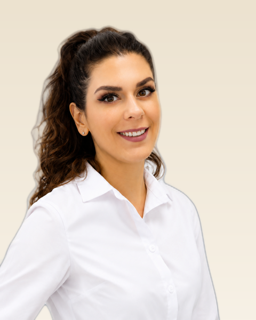
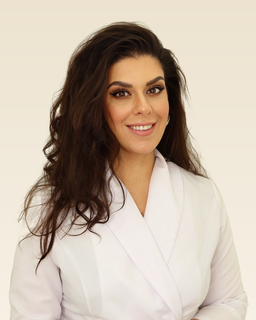
Новое фото Дробковой на карточках и странице врача
Владелец прислал свежий портрет главврача. Обработан по общему стилю
клиники (силуэт на фирменном градиенте, кадр 4:5, zoom 0.95): фон снят,
баланс белого поправлен на 60 % к нейтрали — исходник снят на бежевой
стене, и халат читался розовым.

Ссылки на портреты врачей теперь несут хеш содержимого
(`...webp?v=1a2b3c4d`): reg.ru кеширует webp на 45 дней, и без этого
прежние посетители полтора месяца видели бы старое фото. Версии
проставляет docs-version.py — он расширен с одних сканов документов
на портреты врачей и обходит теперь все HTML-страницы.

Claude-Session: https://claude.ai/code/session_013XQ8Akc3UN6p6GWzUw4Por

diff --git a/doctors/index.html b/doctors/index.html
@@ -80,7 +80,7 @@
 <section class="page-hero page-hero--center"><div class="container"><h1>Наши врачи</h1><p>Команда «Версаль» — врачи-стоматологов профильных специализаций: ортодонт, ортопед, терапевты, хирург, гигиенист и детский стоматолог. Регулярное повышение квалификации, действующие сертификаты, лицензия на медицинскую деятельность.</p></div></section>
 <section class="section"><div class="container">
   <h2 class="section__title" style="font-size:24px;margin-bottom:18px">Врачи-стоматологи</h2>
-  <div class="doctors-grid"><a href="../doctors/drobkova.html" class="doctor-card"><div class="doctor-card__photo"><img src="../assets/img/doctors/drobkova-thumb.webp" alt="Дробкова Кристина Олеговна — Главный врач · стоматолог-ортодонт, стоматология Версаль в Реутове" loading="lazy" decoding="async" width="256" height="320"></div><div class="doctor-card__body"><div class="doctor-card__name">Дробкова Кристина Олеговна</div><div class="doctor-card__role">Главный врач · стоматолог-ортодонт</div><div class="doctor-card__exp">Стаж с 2013 года · брекеты, элайнеры, исправление прикуса</div></div></a><a href="../doctors/rustamov.html" class="doctor-card"><div class="doctor-card__photo"><img src="../assets/img/doctors/rustamov-thumb.webp" alt="Рустамов Эмиль Дилгамович — Стоматолог-ортопед, стоматология Версаль в Реутове" loading="lazy" decoding="async" width="256" height="320"></div><div class="doctor-card__body"><div class="doctor-card__name">Рустамов Эмиль Дилгамович</div><div class="doctor-card__role">Стоматолог-ортопед</div><div class="doctor-card__exp">Стаж от 10 лет · протезирование, коронки, виниры</div></div></a><a href="../doctors/kilasoniya.html" class="doctor-card"><div class="doctor-card__photo"><img src="../assets/img/doctors/kilasoniya-thumb.webp" alt="Киласония Шорена Гиулиевна — Стоматолог-хирург, терапевт, стоматология Версаль в Реутове" loading="eager" decoding="async" width="256" height="320"></div><div class="doctor-card__body"><div class="doctor-card__name">Киласония Шорена Гиулиевна</div><div class="doctor-card__role">Стоматолог-хирург, терапевт</div><div class="doctor-card__exp">Стаж от 10 лет · хирургия, удаление зубов, имплантация, терапия</div></div></a><a href="../doctors/savchuk.html" class="doctor-card"><div class="doctor-card__photo"><img src="../assets/img/doctors/savchuk-thumb.webp" alt="Савчук Григорий Олегович — Стоматолог-хирург, имплантолог, стоматология Версаль в Реутове" loading="lazy" decoding="async" width="256" height="320"></div><div class="doctor-card__body"><div class="doctor-card__name">Савчук Григорий Олегович</div><div class="doctor-card__role">Стоматолог-хирург, имплантолог</div><div class="doctor-card__exp">имплантация, хирургия, протезирование</div></div></a><a href="../doctors/burnaceva.html" class="doctor-card"><div class="doctor-card__photo"><img src="../assets/img/doctors/burnaceva-thumb.webp" alt="Бурнацева Диана Алановна — Стоматолог-терапевт, ортопед, стоматология Версаль в Реутове" loading="lazy" decoding="async" width="256" height="320"></div><div class="doctor-card__body"><div class="doctor-card__name">Бурнацева Диана Алановна</div><div class="doctor-card__role">Стоматолог-терапевт, ортопед</div><div class="doctor-card__exp">Стаж с 2018 года · лечение кариеса и каналов, реставрации, коронки и виниры</div></div></a><a href="../doctors/kendabaeva.html" class="doctor-card"><div class="doctor-card__photo"><img src="../assets/img/doctors/kendabaeva-thumb.webp" alt="Кендабаева Зухро Бурхоновна — Гигиенист, стоматология Версаль в Реутове" loading="lazy" decoding="async" width="256" height="320"></div><div class="doctor-card__body"><div class="doctor-card__name">Кендабаева Зухро Бурхоновна</div><div class="doctor-card__role">Гигиенист</div><div class="doctor-card__exp">Стаж от 10 лет · гигиена, Air Flow, отбеливание</div></div></a><a href="../doctors/hachatryan.html" class="doctor-card"><div class="doctor-card__photo"><img src="../assets/img/doctors/hachatryan-thumb.webp" alt="Хачатрян Карина Вачагановна — Детский врач-стоматолог, стоматология Версаль в Реутове" loading="lazy" decoding="async" width="256" height="320"></div><div class="doctor-card__body"><div class="doctor-card__name">Хачатрян Карина Вачагановна</div><div class="doctor-card__role">Детский врач-стоматолог</div><div class="doctor-card__exp">Стаж с 2018 года · детская стоматология с 2 лет</div></div></a></div>
+  <div class="doctors-grid"><a href="../doctors/drobkova.html" class="doctor-card"><div class="doctor-card__photo"><img src="../assets/img/doctors/drobkova-thumb.webp?v=d5ae4a79" alt="Дробкова Кристина Олеговна — Главный врач · стоматолог-ортодонт, стоматология Версаль в Реутове" loading="lazy" decoding="async" width="256" height="320"></div><div class="doctor-card__body"><div class="doctor-card__name">Дробкова Кристина Олеговна</div><div class="doctor-card__role">Главный врач · стоматолог-ортодонт</div><div class="doctor-card__exp">Стаж с 2013 года · брекеты, элайнеры, исправление прикуса</div></div></a><a href="../doctors/rustamov.html" class="doctor-card"><div class="doctor-card__photo"><img src="../assets/img/doctors/rustamov-thumb.webp?v=6c5d7093" alt="Рустамов Эмиль Дилгамович — Стоматолог-ортопед, стоматология Версаль в Реутове" loading="lazy" decoding="async" width="256" height="320"></div><div class="doctor-card__body"><div class="doctor-card__name">Рустамов Эмиль Дилгамович</div><div class="doctor-card__role">Стоматолог-ортопед</div><div class="doctor-card__exp">Стаж от 10 лет · протезирование, коронки, виниры</div></div></a><a href="../doctors/kilasoniya.html" class="doctor-card"><div class="doctor-card__photo"><img src="../assets/img/doctors/kilasoniya-thumb.webp?v=d03b6b3c" alt="Киласония Шорена Гиулиевна — Стоматолог-хирург, терапевт, стоматология Версаль в Реутове" loading="eager" decoding="async" width="256" height="320"></div><div class="doctor-card__body"><div class="doctor-card__name">Киласония Шорена Гиулиевна</div><div class="doctor-card__role">Стоматолог-хирург, терапевт</div><div class="doctor-card__exp">Стаж от 10 лет · хирургия, удаление зубов, имплантация, терапия</div></div></a><a href="../doctors/savchuk.html" class="doctor-card"><div class="doctor-card__photo"><img src="../assets/img/doctors/savchuk-thumb.webp?v=f3b4a964" alt="Савчук Григорий Олегович — Стоматолог-хирург, имплантолог, стоматология Версаль в Реутове" loading="lazy" decoding="async" width="256" height="320"></div><div class="doctor-card__body"><div class="doctor-card__name">Савчук Григорий Олегович</div><div class="doctor-card__role">Стоматолог-хирург, имплантолог</div><div class="doctor-card__exp">имплантация, хирургия, протезирование</div></div></a><a href="../doctors/burnaceva.html" class="doctor-card"><div class="doctor-card__photo"><img src="../assets/img/doctors/burnaceva-thumb.webp?v=6db5958a" alt="Бурнацева Диана Алановна — Стоматолог-терапевт, ортопед, стоматология Версаль в Реутове" loading="lazy" decoding="async" width="256" height="320"></div><div class="doctor-card__body"><div class="doctor-card__name">Бурнацева Диана Алановна</div><div class="doctor-card__role">Стоматолог-терапевт, ортопед</div><div class="doctor-card__exp">Стаж с 2018 года · лечение кариеса и каналов, реставрации, коронки и виниры</div></div></a><a href="../doctors/kendabaeva.html" class="doctor-card"><div class="doctor-card__photo"><img src="../assets/img/doctors/kendabaeva-thumb.webp?v=3e3ae49f" alt="Кендабаева Зухро Бурхоновна — Гигиенист, стоматология Версаль в Реутове" loading="lazy" decoding="async" width="256" height="320"></div><div class="doctor-card__body"><div class="doctor-card__name">Кендабаева Зухро Бурхоновна</div><div class="doctor-card__role">Гигиенист</div><div class="doctor-card__exp">Стаж от 10 лет · гигиена, Air Flow, отбеливание</div></div></a><a href="../doctors/hachatryan.html" class="doctor-card"><div class="doctor-card__photo"><img src="../assets/img/doctors/hachatryan-thumb.webp?v=dcaa9632" alt="Хачатрян Карина Вачагановна — Детский врач-стоматолог, стоматология Версаль в Реутове" loading="lazy" decoding="async" width="256" height="320"></div><div class="doctor-card__body"><div class="doctor-card__name">Хачатрян Карина Вачагановна</div><div class="doctor-card__role">Детский врач-стоматолог</div><div class="doctor-card__exp">Стаж с 2018 года · детская стоматология с 2 лет</div></div></a></div>
 
   <p class="disclaimer">Полный список медицинских работников с указанием образования, сертификатов и стажа размещён на странице <a href="../legal.html">«Лицензия и реквизиты»</a> в соответствии с приказом Минздрава РФ № 956н.</p>
 </div></section>

diff --git a/index.html b/index.html
@@ -368,27 +368,27 @@
       <button class="doctors-carousel__arrow doctors-carousel__arrow--prev" type="button" data-dc-prev aria-label="Предыдущие врачи"><svg width="18" height="18" viewBox="0 0 24 24" fill="none" stroke="currentColor" stroke-width="2.4" stroke-linecap="round" stroke-linejoin="round"><path d="M15 18l-6-6 6-6"/></svg></button>
       <div class="doctors-carousel__track" data-dc-track>
         <a href="doctors/drobkova.html" class="doctor-card">
-          <div class="doctor-card__photo"><img src="assets/img/doctors/drobkova-thumb.webp" alt="Дробкова Кристина Олеговна — Главный врач · ортодонт" loading="lazy" decoding="async" width="256" height="320"></div>
+          <div class="doctor-card__photo"><img src="assets/img/doctors/drobkova-thumb.webp?v=d5ae4a79" alt="Дробкова Кристина Олеговна — Главный врач · ортодонт" loading="lazy" decoding="async" width="256" height="320"></div>
           <div class="doctor-card__body"><div class="doctor-card__name">Дробкова Кристина Олеговна</div><div class="doctor-card__role">Главный врач · ортодонт</div><div class="doctor-card__exp">Стаж с 2013 года</div></div>
         </a>
         <a href="doctors/rustamov.html" class="doctor-card">
-          <div class="doctor-card__photo"><img src="assets/img/doctors/rustamov-thumb.webp" alt="Рустамов Эмиль Дилгамович — Стоматолог-ортопед" loading="lazy" decoding="async" width="256" height="320"></div>
+          <div class="doctor-card__photo"><img src="assets/img/doctors/rustamov-thumb.webp?v=6c5d7093" alt="Рустамов Эмиль Дилгамович — Стоматолог-ортопед" loading="lazy" decoding="async" width="256" height="320"></div>
           <div class="doctor-card__body"><div class="doctor-card__name">Рустамов Эмиль Дилгамович</div><div class="doctor-card__role">Стоматолог-ортопед</div><div class="doctor-card__exp">Стаж от 10 лет</div></div>
         </a>
         <a href="doctors/kilasoniya.html" class="doctor-card">
-          <div class="doctor-card__photo"><img src="assets/img/doctors/kilasoniya-thumb.webp" alt="Киласония Шорена Гиулиевна — Стоматолог-хирург, терапевт" loading="lazy" decoding="async" width="256" height="320"></div>
+          <div class="doctor-card__photo"><img src="assets/img/doctors/kilasoniya-thumb.webp?v=d03b6b3c" alt="Киласония Шорена Гиулиевна — Стоматолог-хирург, терапевт" loading="lazy" decoding="async" width="256" height="320"></div>
           <div class="doctor-card__body"><div class="doctor-card__name">Киласония Шорена Гиулиевна</div><div class="doctor-card__role">Стоматолог-хирург, терапевт</div><div class="doctor-card__exp">Стаж от 10 лет</div></div>
         </a>
         <a href="doctors/hachatryan.html" class="doctor-card">
-          <div class="doctor-card__photo"><img src="assets/img/doctors/hachatryan-thumb.webp" alt="Хачатрян Карина Вачагановна — Детский стоматолог" loading="lazy" decoding="async" width="256" height="320"></div>
+          <div class="doctor-card__photo"><img src="assets/img/doctors/hachatryan-thumb.webp?v=dcaa9632" alt="Хачатрян Карина Вачагановна — Детский стоматолог" loading="lazy" decoding="async" width="256" height="320"></div>
           <div class="doctor-card__body"><div class="doctor-card__name">Хачатрян Карина Вачагановна</div><div class="doctor-card__role">Детский стоматолог</div><div class="doctor-card__exp">Стаж с 2018 года</div></div>
         </a>
         <a href="doctors/savchuk.html" class="doctor-card">
-          <div class="doctor-card__photo"><img src="assets/img/doctors/savchuk-thumb.webp" alt="Савчук Григорий Олегович — Стоматолог-хирург, имплантолог" loading="lazy" decoding="async" width="256" height="320"></div>
+          <div class="doctor-card__photo"><img src="assets/img/doctors/savchuk-thumb.webp?v=f3b4a964" alt="Савчук Григорий Олегович — Стоматолог-хирург, имплантолог" loading="lazy" decoding="async" width="256" height="320"></div>
           <div class="doctor-card__body"><div class="doctor-card__name">Савчук Григорий Олегович</div><div class="doctor-card__role">Стоматолог-хирург, имплантолог</div><div class="doctor-card__exp">Челюстно-лицевая хирургия, имплантация</div></div>
-        </a><a href="doctors/burnaceva.html" class="doctor-card"><div class="doctor-card__photo"><img src="assets/img/doctors/burnaceva-thumb.webp" alt="Бурнацева Диана Алановна — Стоматолог-терапевт, ортопед, стоматология Версаль в Реутове" loading="lazy" decoding="async" width="256" height="320"></div><div class="doctor-card__body"><div class="doctor-card__name">Бурнацева Диана Алановна</div><div class="doctor-card__role">Стоматолог-терапевт, ортопед</div><div class="doctor-card__exp">Стаж с 2018 года · лечение кариеса и каналов, реставрации, коронки и виниры</div></div></a>
+        </a><a href="doctors/burnaceva.html" class="doctor-card"><div class="doctor-card__photo"><img src="assets/img/doctors/burnaceva-thumb.webp?v=6db5958a" alt="Бурнацева Диана Алановна — Стоматолог-терапевт, ортопед, стоматология Версаль в Реутове" loading="lazy" decoding="async" width="256" height="320"></div><div class="doctor-card__body"><div class="doctor-card__name">Бурнацева Диана Алановна</div><div class="doctor-card__role">Стоматолог-терапевт, ортопед</div><div class="doctor-card__exp">Стаж с 2018 года · лечение кариеса и каналов, реставрации, коронки и виниры</div></div></a>
         <a href="doctors/kendabaeva.html" class="doctor-card">
-          <div class="doctor-card__photo"><img src="assets/img/doctors/kendabaeva-thumb.webp" alt="Кендабаева Зухро Бурхоновна — Гигиенист" loading="lazy" decoding="async" width="256" height="320"></div>
+          <div class="doctor-card__photo"><img src="assets/img/doctors/kendabaeva-thumb.webp?v=3e3ae49f" alt="Кендабаева Зухро Бурхоновна — Гигиенист" loading="lazy" decoding="async" width="256" height="320"></div>
           <div class="doctor-card__body"><div class="doctor-card__name">Кендабаева Зухро Бурхоновна</div><div class="doctor-card__role">Гигиенист</div><div class="doctor-card__exp">Стаж от 10 лет</div></div>
         </a>
         <a href="doctors/" class="doctor-card doctor-card--all">

diff --git a/doctors/kilasoniya.html b/doctors/kilasoniya.html
@@ -138,7 +138,7 @@
 
 <section class="page-hero"><div class="container">
   <div class="doctor-hero">
-    <div class="doctor-hero__photo"><img src="../assets/img/doctors/kilasoniya.webp" alt="Киласония Шорена Гиулиевна — стоматолог-хирург и терапевт клиники Версаль" loading="eager" fetchpriority="high" decoding="async" width="480" height="600"></div>
+    <div class="doctor-hero__photo"><img src="../assets/img/doctors/kilasoniya.webp?v=24d58f81" alt="Киласония Шорена Гиулиевна — стоматолог-хирург и терапевт клиники Версаль" loading="eager" fetchpriority="high" decoding="async" width="480" height="600"></div>
     <div>
       <span class="eyebrow">Стоматолог-хирург, терапевт</span>
       <h1>Киласония Шорена Гиулиевна</h1>

diff --git a/doctors/burnaceva.html b/doctors/burnaceva.html
@@ -151,7 +151,7 @@
 
 <section class="page-hero"><div class="container">
   <div class="doctor-hero">
-    <div class="doctor-hero__photo"><img src="../assets/img/doctors/burnaceva.webp" alt="Бурнацева Диана Алановна — стоматолог-терапевт, ортопед клиники Версаль" loading="eager" fetchpriority="high" decoding="async" width="480" height="600"></div>
+    <div class="doctor-hero__photo"><img src="../assets/img/doctors/burnaceva.webp?v=55e19049" alt="Бурнацева Диана Алановна — стоматолог-терапевт, ортопед клиники Версаль" loading="eager" fetchpriority="high" decoding="async" width="480" height="600"></div>
     <div>
       <span class="eyebrow">Стоматолог-терапевт, ортопед</span>
       <h1>Бурнацева Диана Алановна</h1>

diff --git a/doctors/drobkova.html b/doctors/drobkova.html
@@ -194,7 +194,7 @@
 
 <section class="page-hero"><div class="container">
   <div class="doctor-hero">
-    <div class="doctor-hero__photo"><img src="../assets/img/doctors/drobkova.webp" alt="Дробкова Кристина Олеговна — главный врач, стоматолог-ортодонт, клиника Версаль" loading="lazy" decoding="async" width="480" height="600"></div>
+    <div class="doctor-hero__photo"><img src="../assets/img/doctors/drobkova.webp?v=b5490cb2" alt="Дробкова Кристина Олеговна — главный врач, стоматолог-ортодонт, клиника Версаль" loading="lazy" decoding="async" width="480" height="600"></div>
     <div>
       <span class="eyebrow">Главный врач · стоматолог-ортодонт</span>
       <h1>Дробкова Кристина Олеговна</h1>

diff --git a/doctors/savchuk.html b/doctors/savchuk.html
@@ -98,7 +98,7 @@
 
 <section class="page-hero"><div class="container">
   <div class="doctor-hero">
-    <div class="doctor-hero__photo"><img src="../assets/img/doctors/savchuk.webp" alt="Савчук Григорий Олегович — стоматолог-хирург, имплантолог клиники Версаль" loading="lazy" decoding="async" width="480" height="600"></div>
+    <div class="doctor-hero__photo"><img src="../assets/img/doctors/savchuk.webp?v=85a4339d" alt="Савчук Григорий Олегович — стоматолог-хирург, имплантолог клиники Версаль" loading="lazy" decoding="async" width="480" height="600"></div>
     <div>
       <span class="eyebrow">Стоматолог-хирург · имплантолог · ортопед</span>
       <h1>Савчук Григорий Олегович</h1>

diff --git a/doctors/kendabaeva.html b/doctors/kendabaeva.html
@@ -79,7 +79,7 @@
 
 <section class="page-hero"><div class="container">
   <div class="doctor-hero">
-    <div class="doctor-hero__photo"><img src="../assets/img/doctors/kendabaeva.webp" alt="Кендабаева Зухро Бурхоновна — стоматолог-гигиенист клиники Версаль" loading="lazy" decoding="async" width="480" height="600"></div>
+    <div class="doctor-hero__photo"><img src="../assets/img/doctors/kendabaeva.webp?v=174ce774" alt="Кендабаева Зухро Бурхоновна — стоматолог-гигиенист клиники Версаль" loading="lazy" decoding="async" width="480" height="600"></div>
     <div>
       <span class="eyebrow">Стоматолог-гигиенист</span>
       <h1>Кендабаева Зухро Бурхоновна</h1>

diff --git a/doctors/hachatryan.html b/doctors/hachatryan.html
@@ -158,7 +158,7 @@
 
 <section class="page-hero"><div class="container">
   <div class="doctor-hero">
-    <div class="doctor-hero__photo"><img src="../assets/img/doctors/hachatryan.webp" alt="Хачатрян Карина Вачагановна — детский стоматолог клиники Версаль" loading="lazy" decoding="async" width="480" height="600"></div>
+    <div class="doctor-hero__photo"><img src="../assets/img/doctors/hachatryan.webp?v=17fe60b7" alt="Хачатрян Карина Вачагановна — детский стоматолог клиники Версаль" loading="lazy" decoding="async" width="480" height="600"></div>
     <div>
       <span class="eyebrow">Детский стоматолог</span>
       <h1>Хачатрян Карина Вачагановна</h1>

diff --git a/doctors/rustamov.html b/doctors/rustamov.html
@@ -79,7 +79,7 @@
 
 <section class="page-hero"><div class="container">
   <div class="doctor-hero">
-    <div class="doctor-hero__photo"><img src="../assets/img/doctors/rustamov.webp" alt="Рустамов Эмиль Дилгамович — стоматолог-ортопед клиники Версаль" loading="lazy" decoding="async" width="480" height="600"></div>
+    <div class="doctor-hero__photo"><img src="../assets/img/doctors/rustamov.webp?v=2b56c51f" alt="Рустамов Эмиль Дилгамович — стоматолог-ортопед клиники Версаль" loading="lazy" decoding="async" width="480" height="600"></div>
     <div>
       <span class="eyebrow">Стоматолог-ортопед</span>
       <h1>Рустамов Эмиль Дилгамович</h1>

diff --git a/scripts/docs-version.py b/scripts/docs-version.py
@@ -1,14 +1,18 @@
 #!/usr/bin/env python3
-"""Версия в ссылках на сканы документов — чтобы правки доезжали до людей.
+"""Версия в ссылках на сканы документов и портреты врачей.
 
-reg.ru отдаёт webp с кешем на месяц: пересобрали скан (новый водяной
-знак, поворот, кроп) — а тот, кто открывал документ раньше, ещё месяц
-видит старую картинку из кеша браузера. Лечится как у js/css: к ссылке
-приписывается хеш содержимого файла (`...webp?v=1a2b3c4d`) — изменился
-файл, изменилась ссылка, браузер скачивает заново.
+reg.ru отдаёт webp с кешем на 45 дней: пересобрали скан (новый водяной
+знак, поворот, кроп) или заменили фото врача — а тот, кто заходил
+раньше, ещё полтора месяца видит старую картинку из кеша браузера.
+Лечится как у js/css: к ссылке приписывается хеш содержимого файла
+(`...webp?v=1a2b3c4d`) — изменился файл, изменилась ссылка, браузер
+скачивает заново.
 
-Обрабатываются страницы врачей (`doctors/*.html`): и `href` полной
-версии, и `src` миниатюры. Идемпотентно.
+Обрабатываются все HTML-страницы репозитория, ссылки на
+`assets/img/docs/*.webp` (полная версия и миниатюра скана) и
+`assets/img/doctors/*.webp` (портрет врача и миниатюра карточки).
+PNG-дубли портретов не трогаем — они стоят только в `og:image`
+и JSON-LD, где параметр в ссылке мессенджерам не нужен. Идемпотентно.
 
     python3 scripts/docs-version.py           # проставить
     python3 scripts/docs-version.py --check   # код 1, если надо прогнать
@@ -19,32 +23,40 @@ import sys
 from pathlib import Path
 
 ROOT = Path(__file__).resolve().parent.parent
-DOCS = ROOT / 'assets' / 'img' / 'docs'
+DIRS = ('docs', 'doctors')
 
 def file_hash(p: Path) -> str:
     return hashlib.md5(p.read_bytes()).hexdigest()[:8]
 
 def main(argv):
     check = '--check' in argv
-    hashes = {p.name: file_hash(p) for p in DOCS.glob('*.webp')}
-    rx = re.compile(r'((?:\.\./)?assets/img/docs/)([A-Za-z0-9_-]+\.webp)(\?v=[0-9a-f]{8})?')
+    hashes = {}
+    for d in DIRS:
+        for p in (ROOT / 'assets' / 'img' / d).glob('*.webp'):
+            hashes[f'{d}/{p.name}'] = file_hash(p)
+    rx = re.compile(
+        r'((?:\.\./)?assets/img/(' + '|'.join(DIRS) + r')/)'
+        r'([A-Za-z0-9_-]+\.webp)(\?v=[0-9a-f]{8})?'
+    )
     changed = []
-    for page in sorted((ROOT / 'doctors').glob('*.html')):
+    for page in sorted(ROOT.glob('**/*.html')):
+        if any(part.startswith(('.', '_')) for part in page.relative_to(ROOT).parts):
+            continue
         s = page.read_text(encoding='utf-8')
         def sub(m):
-            name = m.group(2)
-            if name not in hashes:
+            key = f'{m.group(2)}/{m.group(3)}'
+            if key not in hashes:
                 return m.group(0)
-            return f'{m.group(1)}{name}?v={hashes[name]}'
+            return f'{m.group(1)}{m.group(3)}?v={hashes[key]}'
         new = rx.sub(sub, s)
         if new != s:
-            changed.append(page.name)
+            changed.append(str(page.relative_to(ROOT)))
             if not check:
                 page.write_text(new, encoding='utf-8')
     if check:
         if changed:
             print('надо прогнать docs-version.py:', ', '.join(changed)); return 1
-        print('✓ версии ссылок на документы актуальны'); return 0
+        print('✓ версии ссылок на документы и портреты актуальны'); return 0
     print(f'обновлено страниц: {len(changed)}' + (f' ({", ".join(changed)})' if changed else ''))
     return 0
 
